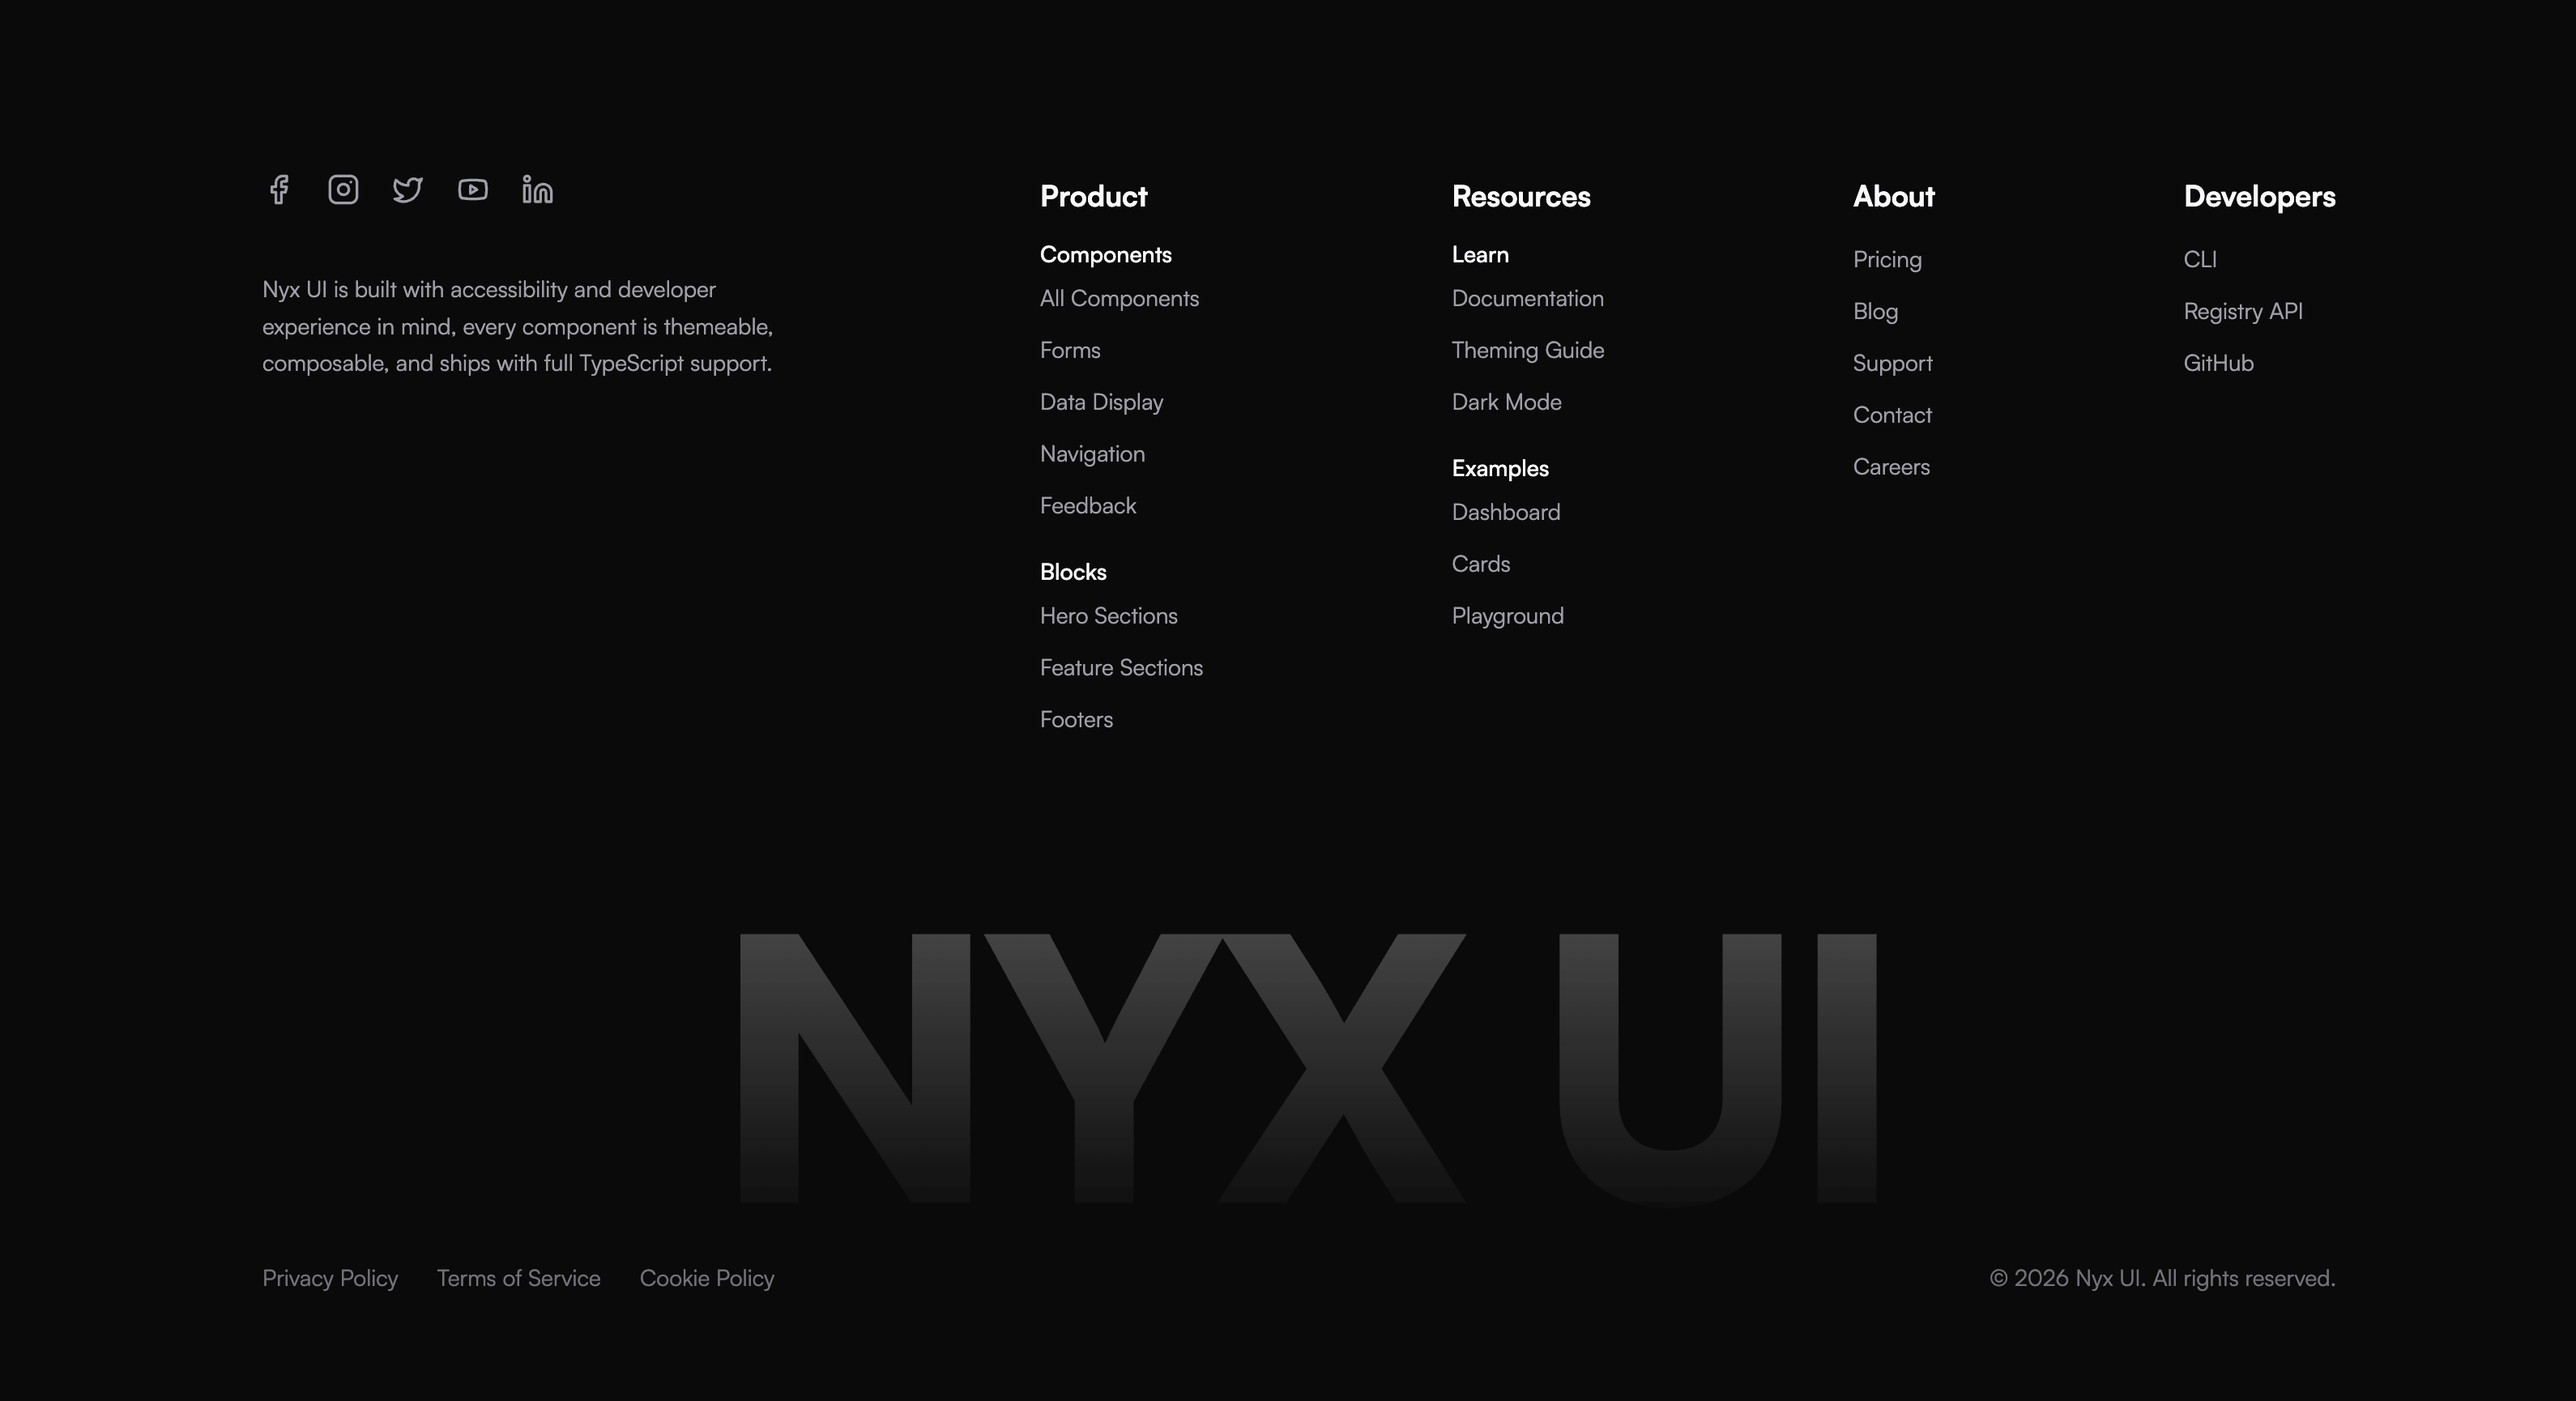
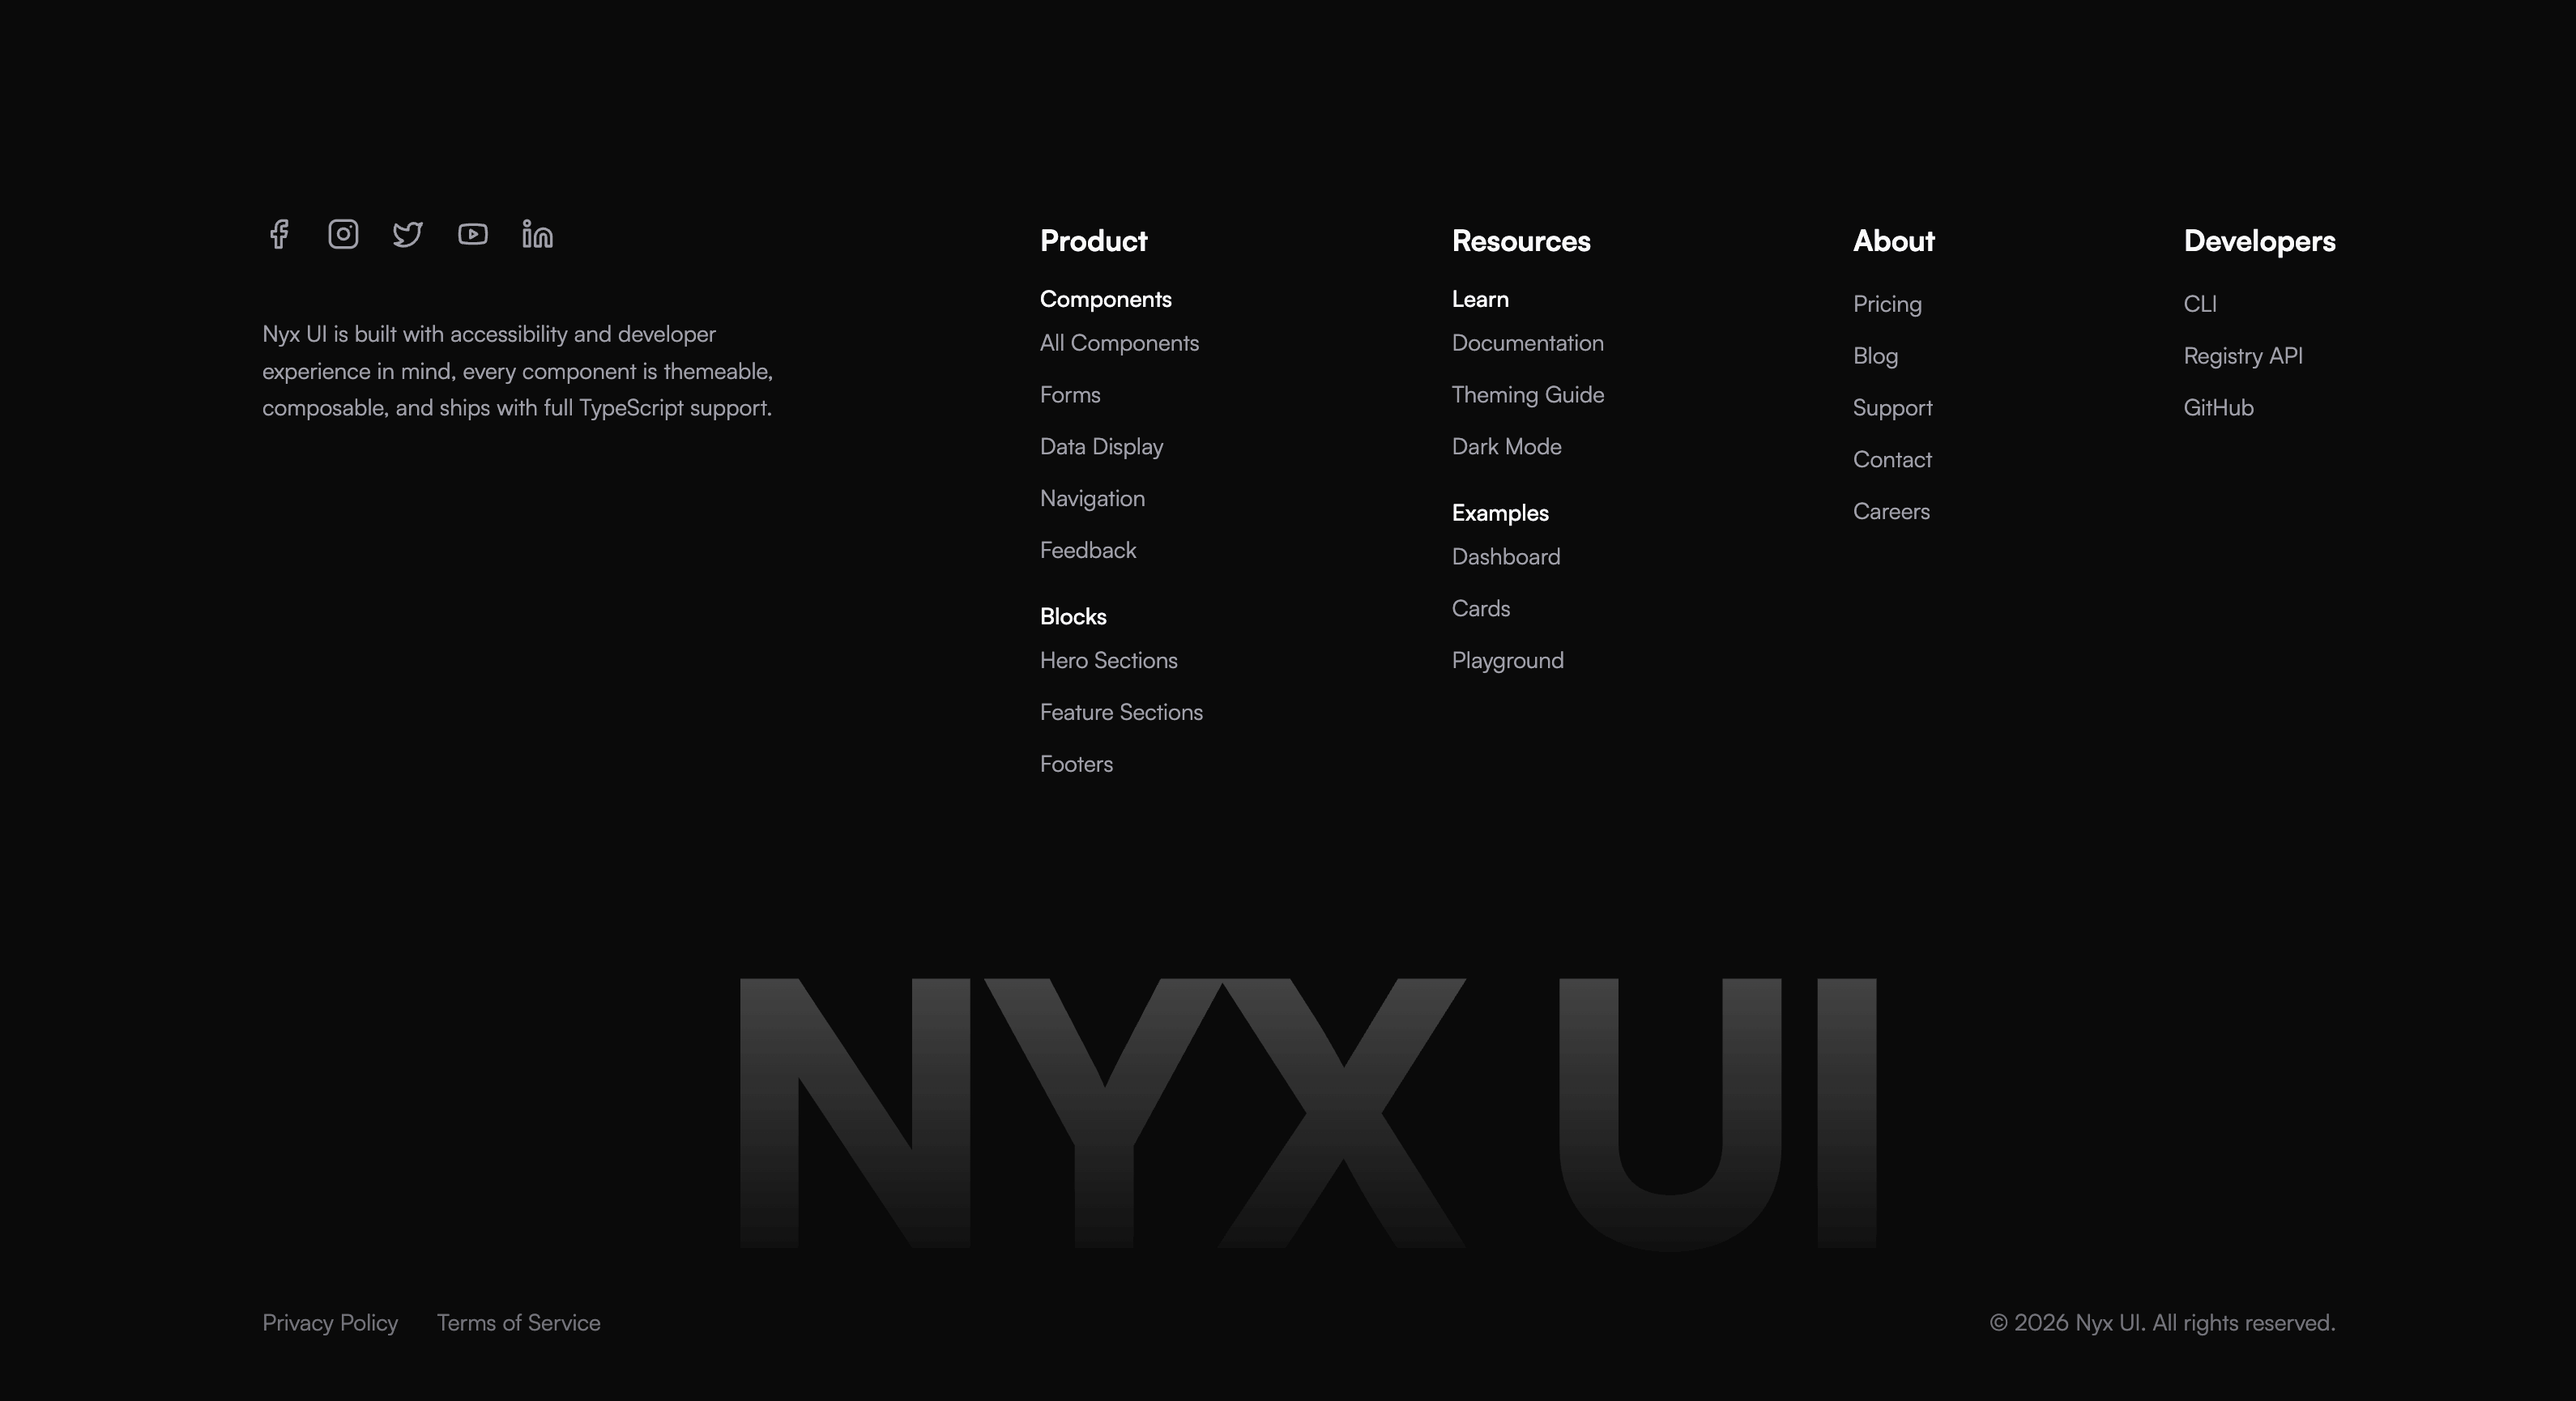
added new desing

diff --git a/components/landing/animated-logo/AnimatedLogoSection.tsx b/components/landing/animated-logo/AnimatedLogoSection.tsx
@@ -1,0 +1,61 @@
+"use client";
+
+import type React from "react";
+import { motion, useReducedMotion } from "motion/react";
+import AnimatedLogo from "@/components/home/newsletter/animated-logo";
+
+export function AnimatedLogoSection(): React.ReactElement {
+  const shouldReduceMotion = useReducedMotion();
+  const reduceMotion = Boolean(shouldReduceMotion);
+
+  return (
+    <section
+      aria-label="The Nyx mark"
+      className="relative left-1/2 w-screen -translate-x-1/2 border-b border-border/60"
+    >
+      <div className="mx-auto max-w-295 border-x border-border/60">
+        <div className="grid items-center gap-10 px-6 py-16 sm:px-10 md:grid-cols-[1fr_auto] md:px-12 md:py-20">
+          <div>
+            <p className="mb-5 font-mono text-[10px] uppercase tracking-widest text-brand">
+              The mark
+            </p>
+            <h2 className="max-w-xl text-4xl leading-tight font-medium tracking-tight sm:text-5xl">
+              Drawn in a single
+              <br />
+              <span className="text-foreground/65">
+                {" "}
+                <span className="font-caveat text-brand text-6xl">stroke.</span>
+              </span>
+            </h2>
+            <p className="mt-5 max-w-lg text-base leading-7 text-muted-foreground">
+              The Nyx mark animates from a bare outline to the finished glyph —
+              pure SVG, no JavaScript animation library, and it respects
+              reduced-motion out of the box.
+            </p>
+          </div>
+
+          <motion.div
+            initial={reduceMotion ? false : { opacity: 0, y: 18 }}
+            whileInView={{ opacity: 1, y: 0 }}
+            viewport={{ once: true, amount: 0.2 }}
+            transition={{
+              duration: reduceMotion ? 0 : 0.55,
+              delay: reduceMotion ? 0 : 0.2,
+              ease: [0.22, 1, 0.36, 1],
+            }}
+            className="flex justify-center text-brand md:justify-end"
+          >
+            <AnimatedLogo
+              width={220}
+              height={195}
+              strokeWidth={20}
+              durationMs={2600}
+              triggerOnce
+              aria-hidden="true"
+            />
+          </motion.div>
+        </div>
+      </div>
+    </section>
+  );
+}

diff --git a/components/global/SidebarLayout.tsx b/components/global/SidebarLayout.tsx
@@ -25,7 +25,7 @@ export default function SidebarLayout({
         )}
       >
         <aside className="hidden w-full shrink-0 lg:block lg:w-auto">
-          <div className="sticky top-16 h-[calc(100vh-4rem)] overflow-x-hidden overflow-y-auto hide-scrollbar">
+          <div className="sticky top-16 mt-3 h-[calc(100vh-4rem)] overflow-x-hidden overflow-y-auto hide-scrollbar">
             <ComponentSidebar type={sidebarType} />
           </div>
         </aside>
